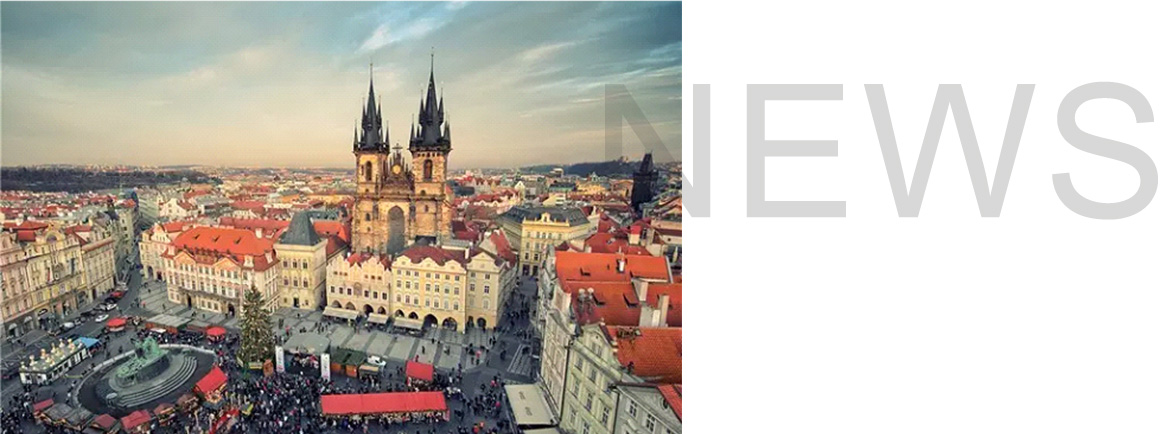
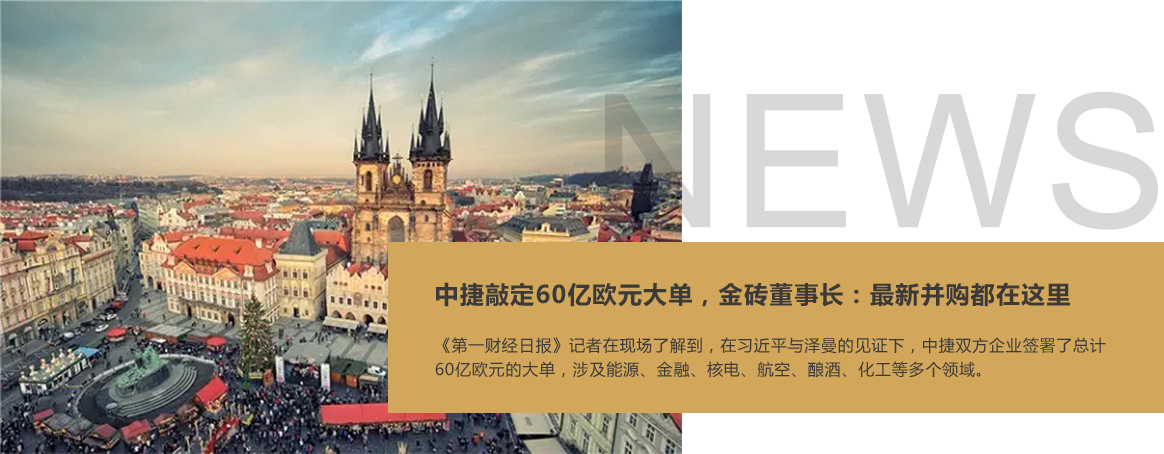
.

diff --git a/public/views/news.html b/public/views/news.html
@@ -3,10 +3,6 @@
         <div class="banner banner-news wrapper">
             <img src="/misc/images/news-banner.jpg" alt="" class="w100 mhide">
             <img src="/misc/images/news-banner-mobile.jpg" alt="" class="w100 mshow">
-            <div class="w-wrapper">
-                <h2 class="f24 color-light-dark">中捷敲定60亿欧元大单，金砖董事长：最新并购都在这里</h2>
-                <p class="f16 color-light-dark">上海金砖股权投资基金总部在上海陆家嘴国金中心二期，并在北京、香港设有办事处。金砖基金注册资本为人民币20亿元，金砖一期母基金的发起人为一家世界500强企业（第342位）中国华信，一期基金规模为人民币50亿元，在国内首屈一指。</p>
-            </div>
         </div>
 
         <div class="content-news">
@@ -21,21 +17,8 @@
             <p class="f16">J&T金融公司董事会成员科瓦奇（Igor Kovac）告诉本报记者，与国开行、股东华信公司的合作中，主要将就“一带一路”部分项目进行投资。“公司也会帮助捷克及欧洲其他地区的投资者了解这些项目。单个项目的投资限额为8亿欧元左右。”科瓦奇表示，目前J&T金融公司就有5个在能源、加工、制造业等领域的项目。 16px</p>
 
             <div class="cards">
-                <ul class="clearfix">
-                    <li class="item card">
-                        <img src="/misc/images/news-pic-1.jpg" alt="">
-                    </li>
-                    <li class="item card last color-white">
-                        <h4 class="f24">合作潜力巨大</h4>
-                        <p class="f16">多位中捷企业家在接受《第一财经日报》记者采访时也表示，捷克及中东欧地区属于尚未开垦的处女地，彼此合作潜力巨大。</p>
-                        <p class="f16">二商集团党委书记孙杰就对记者表示，
-集团此次将入股捷克“老博客啤酒”公司10%的股份。“目前老博客啤酒已经是
-中方公司华信集团控股。</p>
-                        <p class="f16">我们会把这个品牌的啤酒引入中国，先试水北京，生产基地依然放在捷克。我们以往代理最多的是红酒，现在可以从捷克啤酒开始，
-尝试不同的产品。中国人饮用捷克的啤酒
-还不是太多，这一市场潜力很大。” </p>
-                    </li>
-                </ul>
+                <img src="/misc/images/news-card.jpg" alt="" class="w100 mhide">
+                <img src="/misc/images/news-card-mobile.jpg" alt="" class="w100 mshow">
             </div>
 
             <p class="f16 mt20">金砖基金董事长王毅则认为，国有企业走出去，不仅可以提升资产质量，同时也可以考虑资本上市。“我们会与二商集团一起，在食品产业链上下游整合、物流板块、海外食品进口等方面做相关合作。我们会对二商集团进行股权投资，帮其实现资产收益率、去杠杆等，也会看看是否有机会使得二商集团实现上市。”</p>

diff --git a/public/css/style.css b/public/css/style.css
@@ -12,7 +12,7 @@ body {
 }
 
 .font-eng {
-	font-family: "dinpro-light";
+	font-family: "Arial";
 }
 
 b {
@@ -637,23 +637,25 @@ a.color4:hover {
     margin-bottom: 20px;
 }
 
-.main-content-wrapper {
-    
+.animation {
+    -webkit-transition: all easy 1s;
 }
 
-.main-content-wrapper.ng-enter, .main-content-wrapper.ng-leave {
-  -webkit-transition: all easy .8s;
-  -o-transition: all easy .8s;
-  transition: all easy .8s;
-}
-
-.main-content-wrapper.ng-enter {
+.animation.ng-enter {
     opacity: 0;
 }
-.main-content-wrapper.ng-enter.ng-enter-active {
+
+.animation.ng-leave {
+    opacity: 1;
+}
+
+.animation.ng-enter {
+    opacity: 0;
+}
+.animation.ng-enter.ng-enter-active {
   opacity: 1;
 }
-.main-content-wrapper.ng-leave.ng-leave-active {
+.animation.ng-leave.ng-leave-active {
   opacity: 0;
 }
 

diff --git a/public/index.html b/public/index.html
@@ -19,7 +19,7 @@
 	<script src="/libs/jquery.easing.js"></script>
 	<script src="/libs/angular/angular.min.js"></script>
 	<script src="/libs/angular-route/angular-route.min.js"></script>
-	<script src="/libs/angular-animate/angular-animate.min.js"></script>
+	<script src="/libs/angular-animate/angular-animate.js"></script>
 
 	<!-- ANGULAR CUSTOM -->
 	<script src="/js/services/NerdService.js"></script>
@@ -41,7 +41,7 @@
 
 
 	<!-- ANGULAR DYNAMIC CONTENT -->
-	<div ng-view class="main-content-wrapper" onload="hideMobileMenu()"></div>
+	<div ng-view class="animation" onload="hideMobileMenu()"></div>
 
 	<div class="footer">
 		<div class="wrapper">

diff --git a/public/views/home.html b/public/views/home.html
@@ -2,7 +2,10 @@
 	<div class="wrapper">
 		<div class="slider-con">
 			<div class="slider">
-				<a href="/#/about"><img src="/misc/images/home/home-banner.jpg" alt=""></a>
+				<a href="/#/about">
+						<img src="/misc/images/home/home-banner.jpg" alt="" class="w100 mhide">
+						<img src="/misc/images/home/home-banner-mobile.jpg" alt="" class="w100 mshow">
+					</a>
 			</div>
 		</div>
 	</div>

diff --git a/public/css/mobile.css b/public/css/mobile.css
@@ -333,7 +333,7 @@
 	}
 
 	.content-news {
-	    margin-top: 100px;
+	    margin-top: 0px;
 	    width: 100%;
 	    padding: 25px 30px;
 	}
